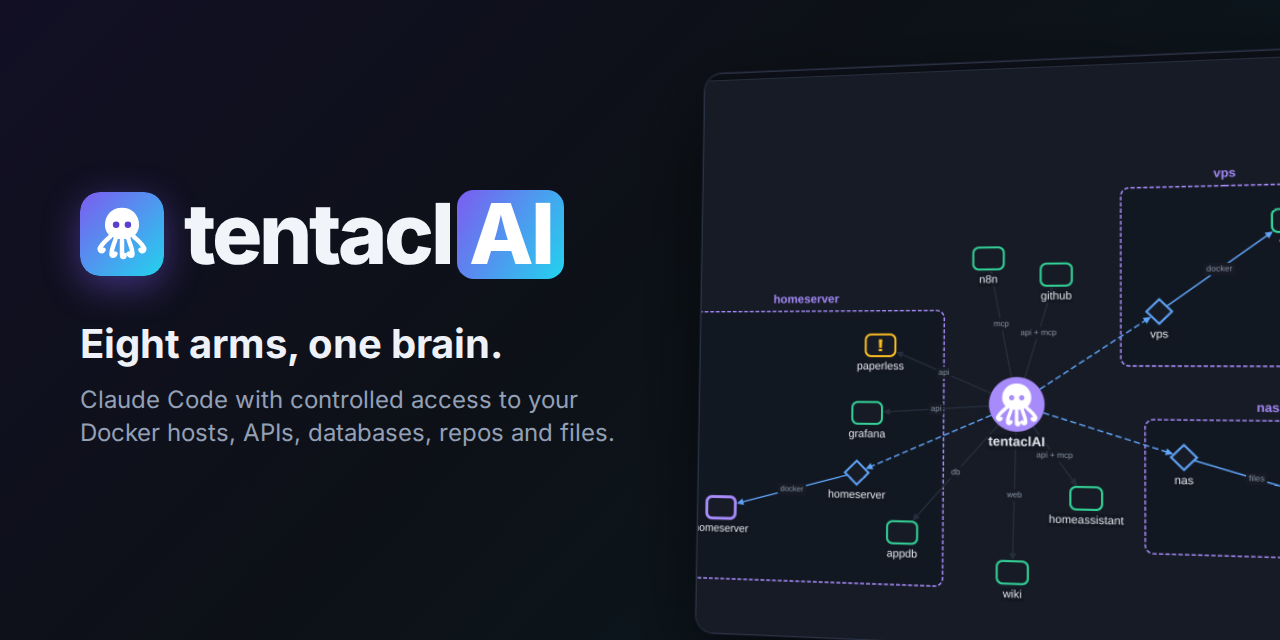
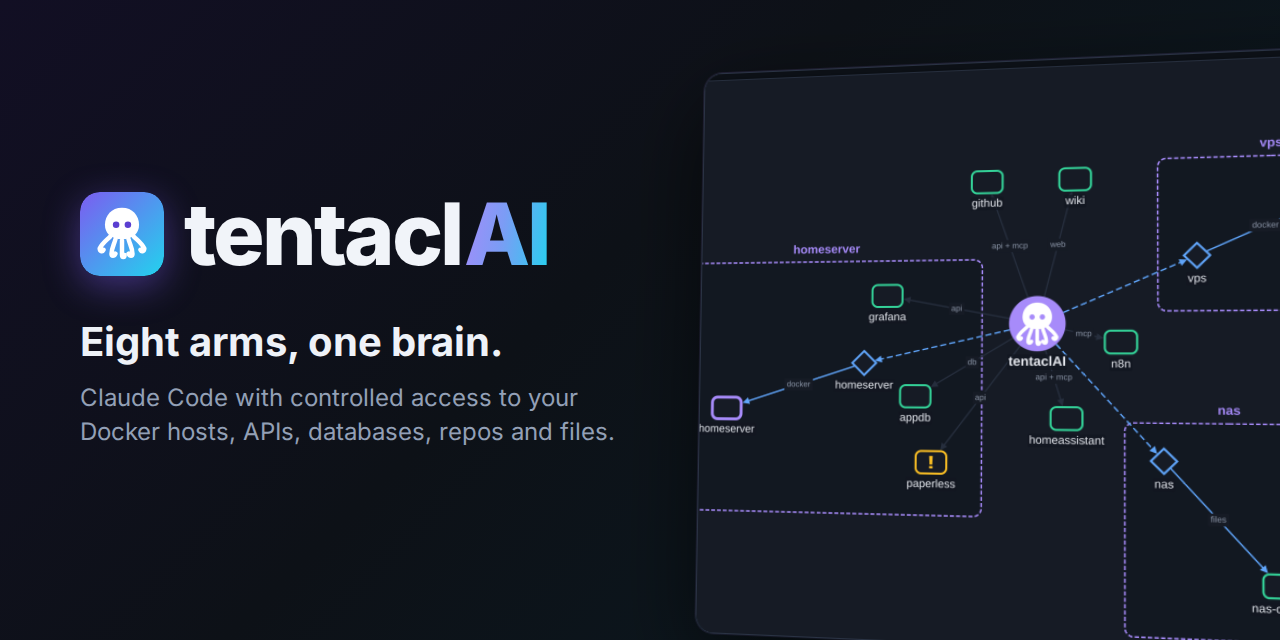
Branding: wordmark with gradient "AI" text instead of a badge
Same layout (social preview with product shot), lighter emphasis on AI.

diff --git a/control/app/templates/base.html b/control/app/templates/base.html
@@ -13,7 +13,7 @@
 <body hx-headers='{"X-Requested-With": "htmx"}'>
 <div class="app">
   <aside class="sidebar">
-    <div class="brand"><img class="logo" src="/static/logo.svg?v={{ asset_v }}" alt="" width="32" height="32"><div>tentacl<span class="ai-badge">AI</span><small>Eight arms, one brain</small></div></div>
+    <div class="brand"><img class="logo" src="/static/logo.svg?v={{ asset_v }}" alt="" width="32" height="32"><div>tentacl<span class="ai-grad">AI</span><small>Eight arms, one brain</small></div></div>
     <nav class="nav">
       <a href="/" class="{{ 'active' if nav == 'dashboard' }}">{{ icon('home') }}Overview</a>
       <a href="/terminal" class="{{ 'active' if nav == 'terminal' }}">{{ icon('terminal') }}Terminal</a>

diff --git a/control/app/static/app.css b/control/app/static/app.css
@@ -252,6 +252,6 @@ dialog.modal .card-head { margin-bottom: 12px; }
 .menu-item:hover { background: var(--panel-2); }
 .menu-item svg { width: 14px; height: 14px; color: var(--muted); }
 .menu-sep { height: 1px; background: var(--border); margin: 4px 2px; }
-/* wordmark: tentacl + AI badge */
-.ai-badge { display: inline-block; margin-left: 1px; padding: 0 4px; border-radius: 4px; line-height: 1.25; color: #fff; font-weight: 800;
-  background: linear-gradient(120deg, #7c5cf0, #22d3ee); }
+/* wordmark: tentacl + AI in the brand gradient */
+.ai-grad { margin-left: .04em; background: linear-gradient(100deg, #a78bfa, #7c9cf5 45%, #22d3ee);
+  -webkit-background-clip: text; background-clip: text; color: transparent; }

diff --git a/control/app/templates/setup.html b/control/app/templates/setup.html
@@ -9,7 +9,7 @@
 <body>
 <div class="auth">
   <form class="card" method="post" action="/setup">
-    <div class="brand"><img class="logo" src="/static/logo.svg?v={{ asset_v }}" alt="" width="32" height="32"><div>Set up tentacl<span class="ai-badge">AI</span></div></div>
+    <div class="brand"><img class="logo" src="/static/logo.svg?v={{ asset_v }}" alt="" width="32" height="32"><div>Set up tentacl<span class="ai-grad">AI</span></div></div>
     <p class="muted small">Choose the admin password. The setup token is in the container log:<br><code>./tentaclai.sh setup-url</code> or <code>docker logs tentacontrol</code></p>
     {% if error %}<div class="error">{{ error }}</div>{% endif %}
     <div class="field">

diff --git a/control/app/templates/login.html b/control/app/templates/login.html
@@ -9,7 +9,7 @@
 <body>
 <div class="auth">
   <form class="card" method="post" action="/login">
-    <div class="brand"><img class="logo" src="/static/logo.svg?v={{ asset_v }}" alt="" width="32" height="32"><div>tentacl<span class="ai-badge">AI</span><small>Eight arms, one brain</small></div></div>
+    <div class="brand"><img class="logo" src="/static/logo.svg?v={{ asset_v }}" alt="" width="32" height="32"><div>tentacl<span class="ai-grad">AI</span><small>Eight arms, one brain</small></div></div>
     {% if error %}<div class="error">{{ error }}</div>{% endif %}
     <div class="field">
       <label for="pw">Password</label>
